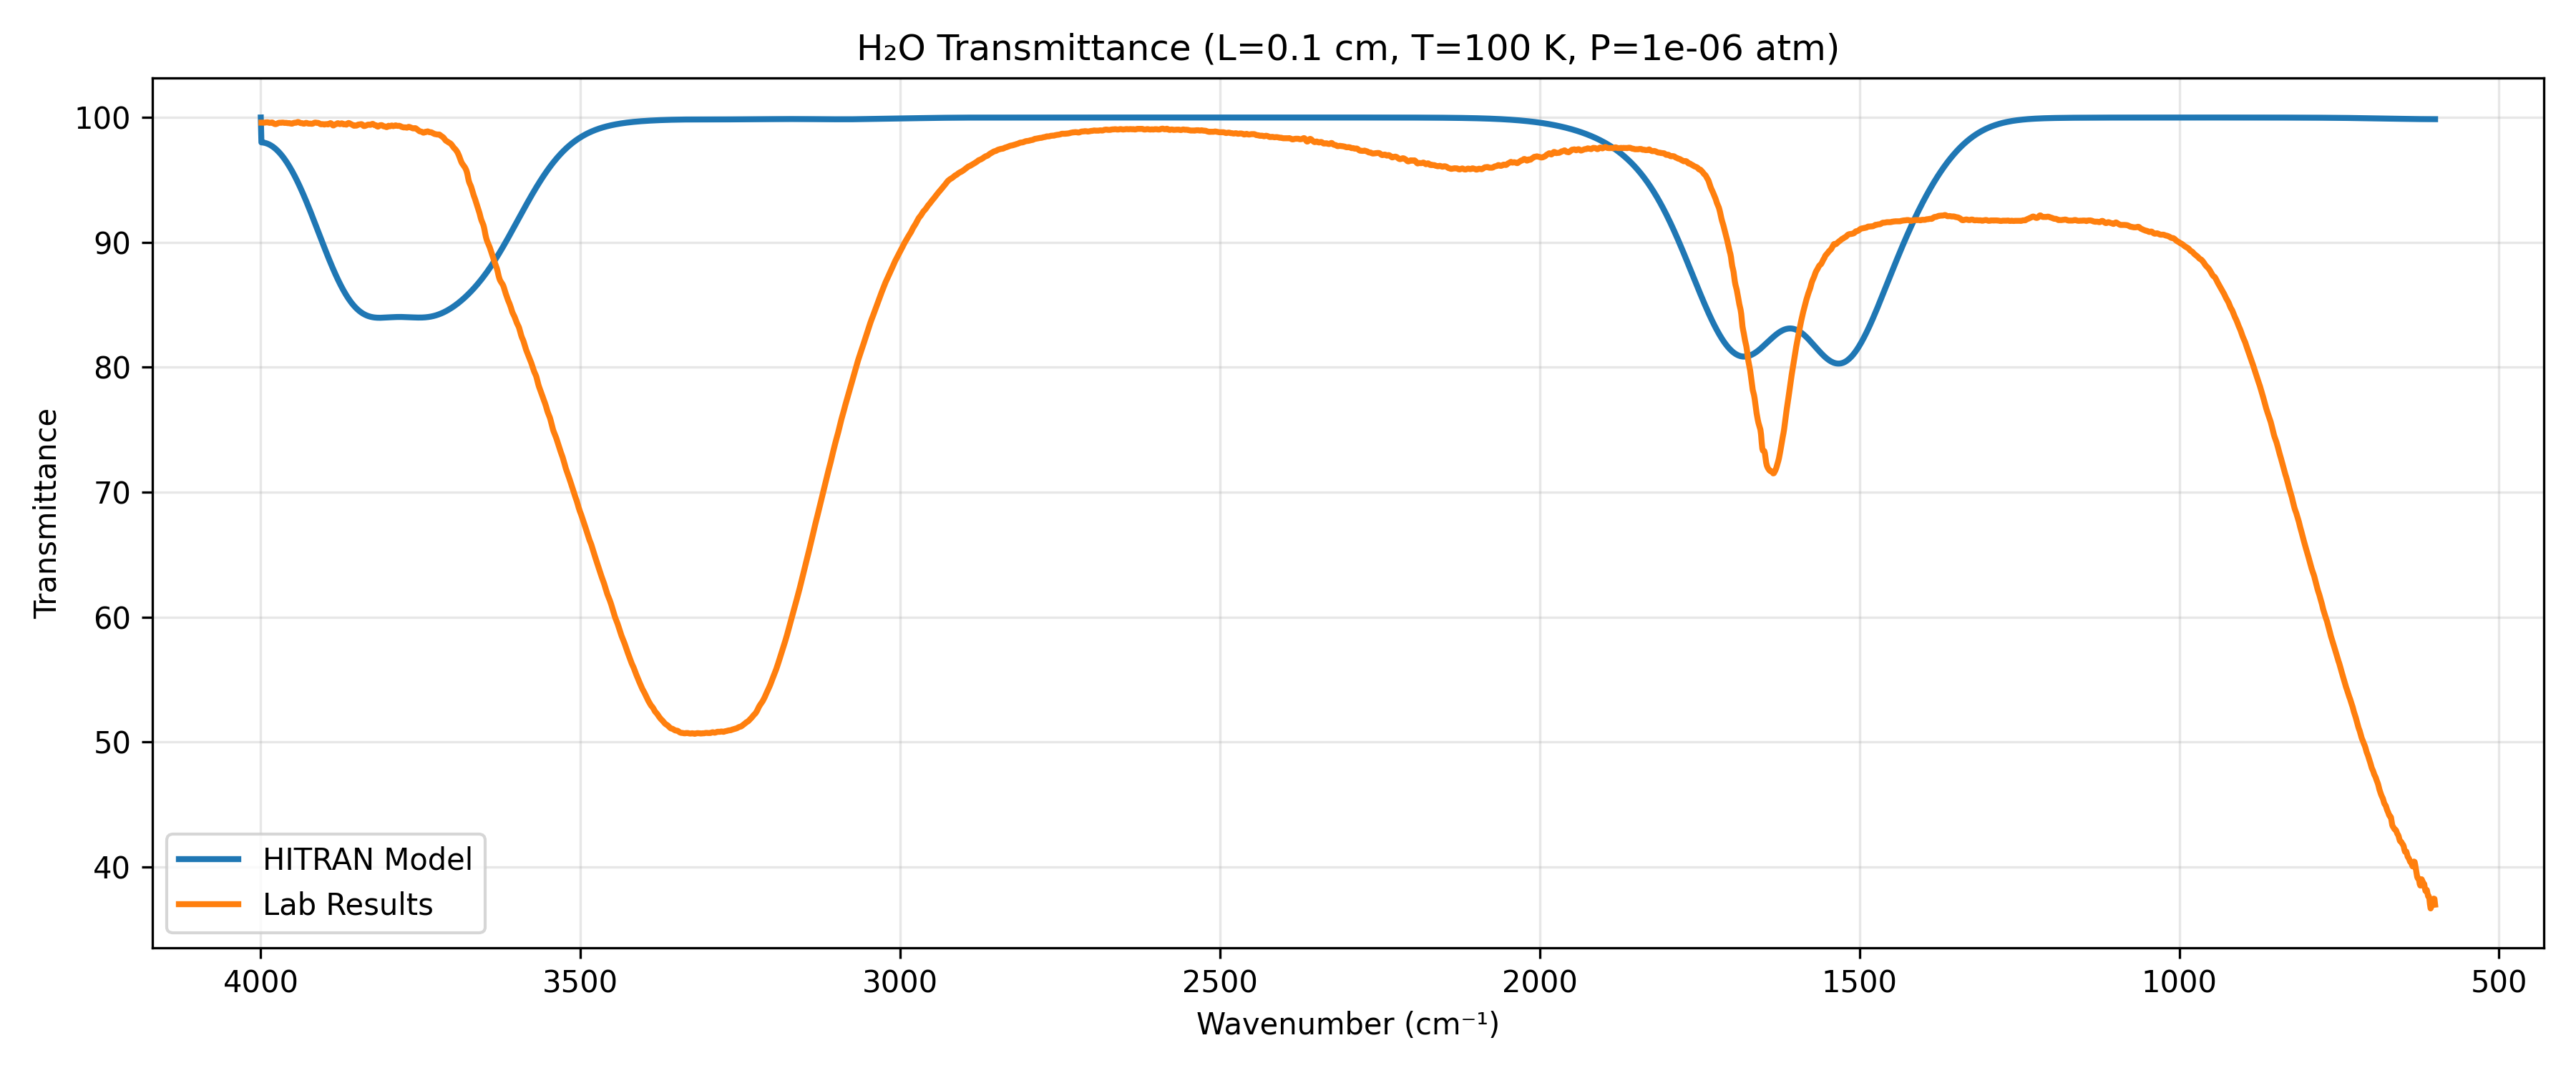
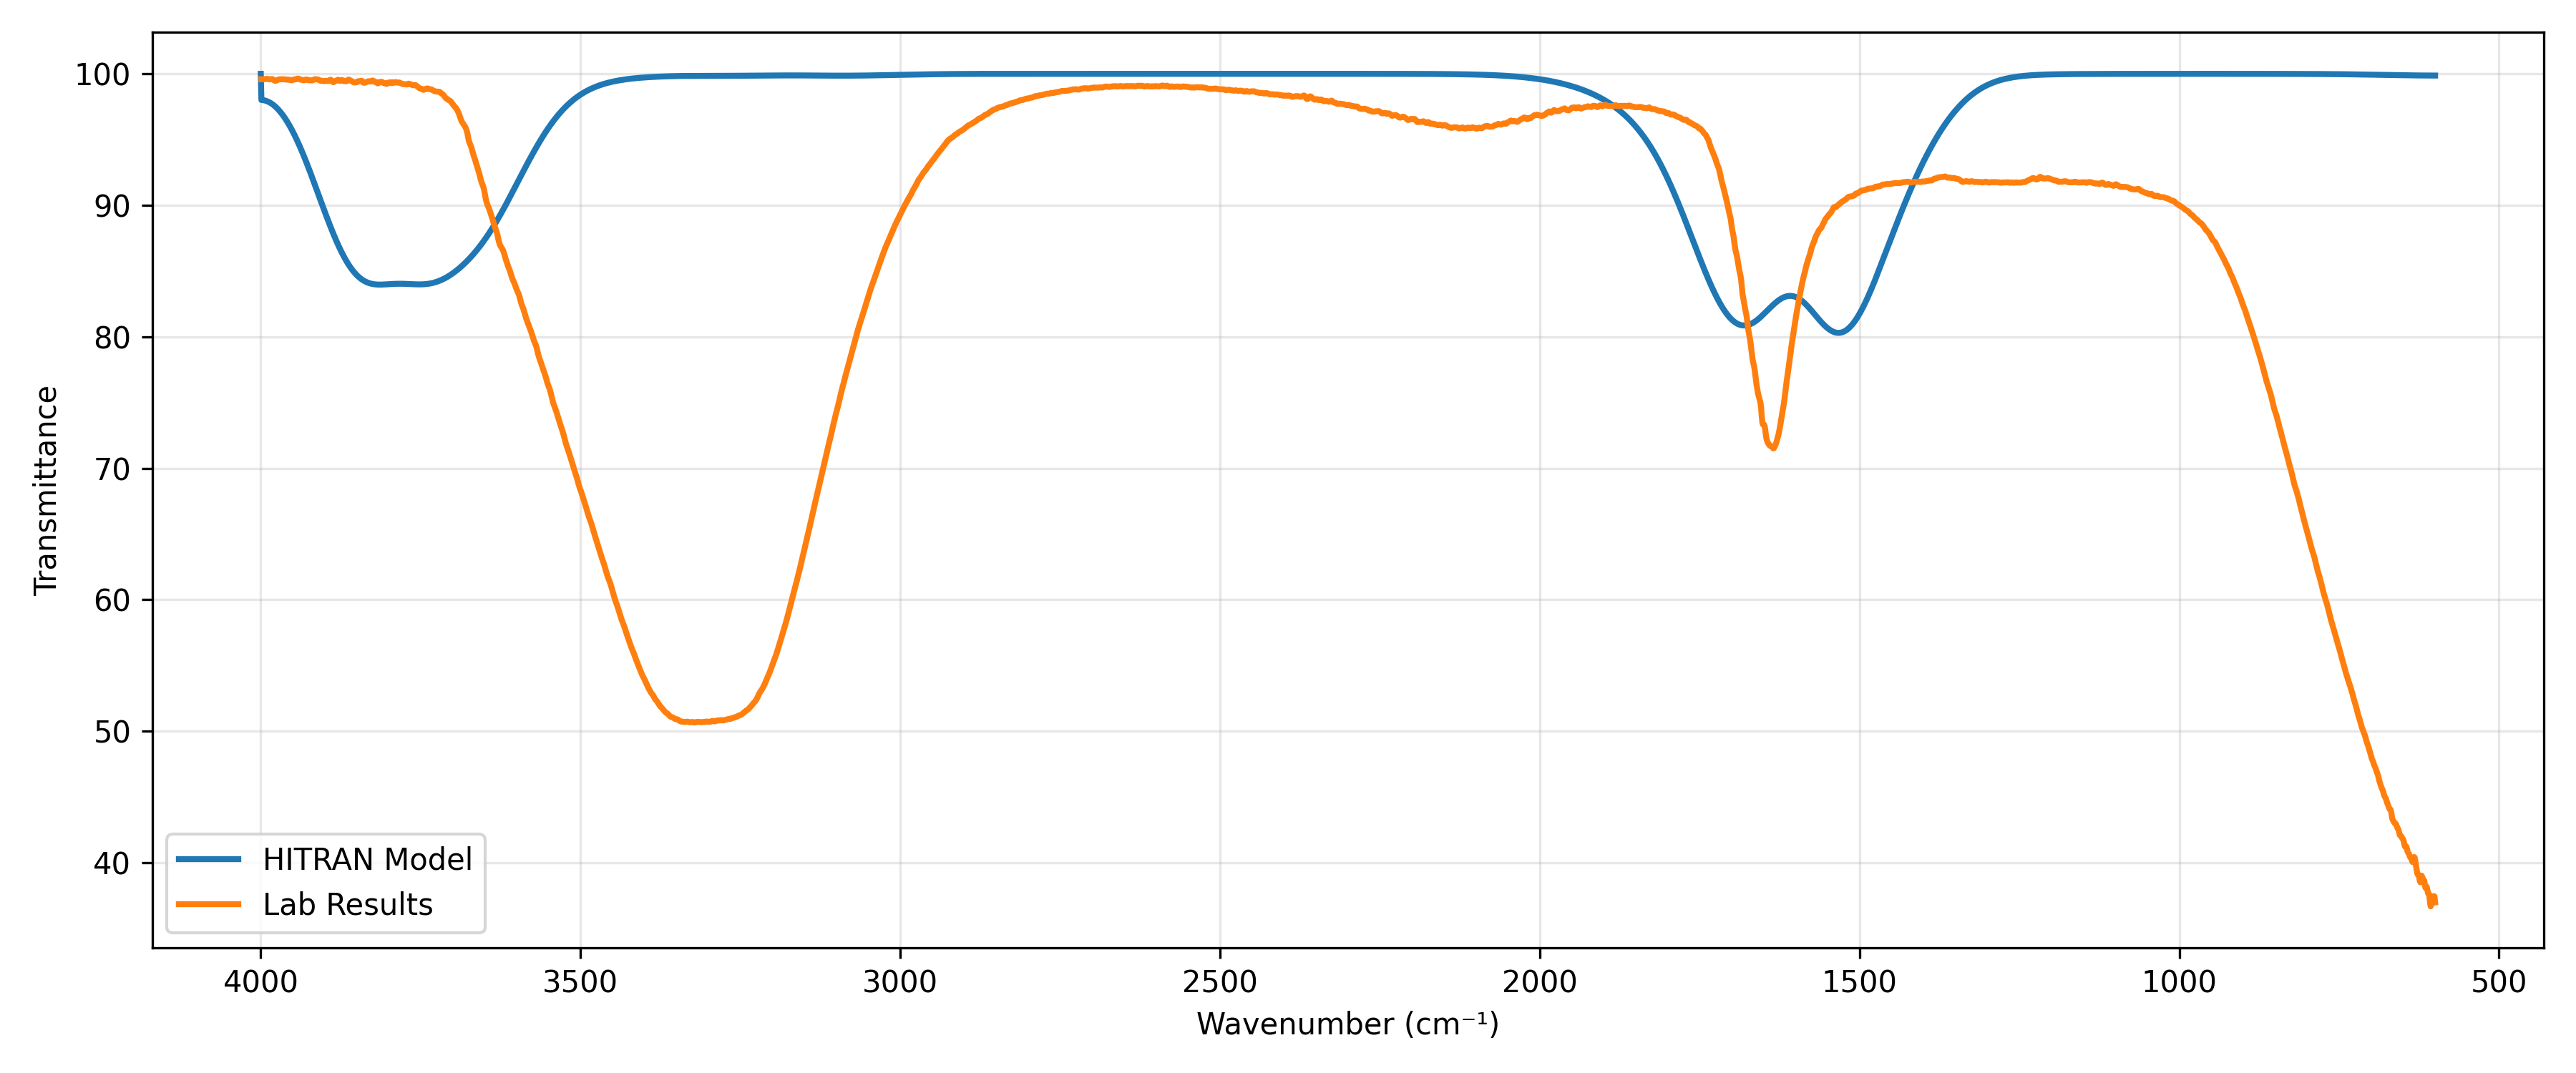
donneee

diff --git a/plot_spectra.py b/plot_spectra.py
@@ -1,10 +1,34 @@
 import numpy as np
 import matplotlib as mpl
 from matplotlib import pyplot as plt
-mpl.rcParams["font.size"] = 14
+mpl.rcParams["font.size"] = 16
 import re
 import os
 import pandas as pd
+
+from scipy import sparse
+from scipy.sparse.linalg import spsolve
+from scipy.signal import savgol_filter
+
+def baseline_als(y, lam=1e5, p=0.01, niter=10):
+    L = len(y)
+    D = sparse.diags([1,-2,1],[0,1,2], shape=(L-2,L))
+    w = np.ones(L)
+    for _ in range(niter):
+        W = sparse.spdiags(w, 0, L, L)
+        Z = W + lam * D.T @ D
+        z = spsolve(Z, w*y)
+        w = p * (y > z) + (1-p) * (y < z)
+    return z
+def preprocess(data):
+    x = data["wavenumber_cm1"].values
+    y = data["transmittance"].values
+
+    baseline = baseline_als(y)
+    y_corr = y - baseline
+
+    return x, y_corr
+
 current_directory = os.getcwd()
 intrument_name = "RAMAN"
 filetype = "txt"
@@ -100,3 +124,38 @@ plt.gca().invert_xaxis()  # typical for IR spectra
 
 plt.legend()
 plt.show()
+
+
+plt.figure(figsize=(12,10))
+
+offset = 1.2
+datasets = [
+    ("A", dataA),
+    ("B", dataB),
+    ("C", dataC),
+    ("D", dataD),
+    ("E", dataE),
+    ("F", dataF),
+    ("G", dataG),
+    ("NaCl", dataNaCl),
+    ("NaBr", dataNaBr),
+]
+
+for i, (label, data) in enumerate(datasets):
+    x, y = preprocess(data)
+
+    # smoothing + normalization
+    from scipy.signal import savgol_filter
+    y = savgol_filter(y, 10, 4)
+    y = y / np.max(y)
+
+    plt.plot(x, y + i*offset, label=label)
+
+plt.xlabel("Wavenumber (cm⁻¹)")
+plt.ylabel("Normalized intensity (offset)")
+# plt.title("Raman Spectra (baseline corrected)")
+plt.gca().invert_xaxis()
+
+plt.legend(loc="lower left", fontsize=14)
+plt.tight_layout()
+plt.savefig("Raman_spectra_baseline_corrected.png", dpi=300)

diff --git a/HITRAN_convolution_spectra/Verification_H2O_lab_results.py b/HITRAN_convolution_spectra/Verification_H2O_lab_results.py
@@ -8,12 +8,20 @@ from hapi import db_begin, partitionSum
 from scipy.ndimage import gaussian_filter1d
 from scipy.interpolate import interp1d
 import pandas as pd
+
+
+
 cd = os.getcwd()
 path_to_sample = '/Users/ward/Documents/GitHub/Ward-github/Measurement strategies for planetary science missions/AE4895-Measurement_strategies/FTIR/sample B.csv'
+
+
 #readfile, skip row 0,1, delimiter is ';', decimal seperator is ',', unpack into np_exp and T_exp
+
 df = pd.read_csv(path_to_sample, delimiter=';', decimal=',', skiprows=2)
 np_exp = df.iloc[:, 0].values
 T_exp = df.iloc[:, 1].values
+
+
 def main():
     # spectral regions of interest
     REGIONS = {
@@ -126,7 +134,7 @@ def main():
                 ax.set_xticklabels([])
 
             if col == 0:
-                ax.set_ylabel('absorption cross-section (norm.)')
+                ax.set_ylabel('absorption(norm.)')
             else:
                 ax.set_yticklabels([])
 
@@ -147,6 +155,7 @@ def main():
         return xsec_raw, nu_grid
     else:
         return None, None
+
 # ── Entry point ───────────────────────────────────────────────────────────────
 if __name__ == '__main__':
     cd = os.getcwd()
@@ -188,6 +197,6 @@ if __name__ == '__main__':
     plt.legend()
     plt.gca().invert_xaxis()
     plt.grid(True, alpha=0.3)
-    plt.title(f"H₂O Transmittance (L={L} cm, T={T_lab:.0f} K, P={P_lab} atm)")
+    # plt.title(f"H₂O Transmittance")
     plt.tight_layout()
     plt.savefig('h2o_lab_comparison.png', dpi=300)